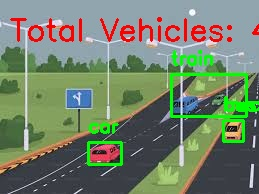
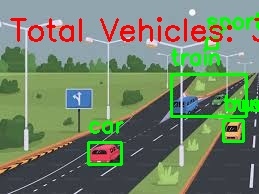
update yolo

Changed region(s): [[0.6486, 0.0309, 1.0, 0.3402], [0.8649, 0.4639, 1.0, 0.5876], [0.3398, 0.6186, 0.4942, 0.7113]]

diff --git a/detect.py b/detect.py
@@ -1,60 +1,59 @@
 from ultralytics import YOLO
 import cv2
 
-# Load model YOLOv8 (Large untuk akurasi maksimal)
-model = YOLO("yolov8l.pt")  # l = large
+# Load model YOLOv8 Large
+model = YOLO("yolov8l.pt")
 
-# Daftar kelas kendaraan
-vehicle_classes = ["car", "truck", "bus", "motorcycle", "bicycle", "scooter", "van", "train"]
+# Daftar kelas kendaraan yang ingin dihitung (sesuai COCO)
+vehicle_classes = ["car", "truck", "bus", "motorcycle"]
 
 def detect_vehicle(image_path):
-    # Jalankan inferensi dengan confidence threshold 0.3 dan resize gambar lebih besar untuk objek kecil
-    results = model(image_path, conf=0.3, imgsz=1280)[0]  # imgsz lebih besar untuk deteksi lebih akurat
+    # Confidence agak rendah supaya kendaraan buram tetap terdeteksi
+    results = model(image_path, conf=0.25, imgsz=1280)[0]
 
-    # Baca gambar dengan OpenCV
     img = cv2.imread(image_path)
 
-    # Variabel menghitung jumlah kendaraan
-    count = 0
+    total_vehicle = 0
 
-    # Loop hasil deteksi
     for box in results.boxes:
         cls = int(box.cls[0])
-        label = results.names[cls]
+        label = results.names[cls]     # Nama kelas asli YOLO
 
-        # Jika yang terdeteksi adalah kendaraan
+        # Hitung hanya kendaraan
         if label in vehicle_classes:
-            count += 1
+            total_vehicle += 1
 
-            # Ambil koordinat bounding box
-            x1, y1, x2, y2 = map(int, box.xyxy[0].tolist())
+        # Ambil koordinat bounding box
+        x1, y1, x2, y2 = map(int, box.xyxy[0].tolist())
 
-            # Gambar kotak di sekitar objek
-            cv2.rectangle(img, (x1, y1), (x2, y2), (0, 255, 0), 2)
-            cv2.putText(img, label,
-                        (x1, y1 - 10),
-                        cv2.FONT_HERSHEY_SIMPLEX,
-                        0.6,
-                        (0, 255, 0),
-                        2)
+        # Gambar kotak
+        cv2.rectangle(img, (x1, y1), (x2, y2), (0, 255, 0), 2)
 
-    # Tambahkan jumlah kendaraan di atas gambar
-    cv2.putText(img, f"Total Vehicles: {count}", 
-                (10, 40), 
-                cv2.FONT_HERSHEY_SIMPLEX, 
-                1, 
-                (0, 0, 255), 
+        # Label TANPA angka (hanya nama kendaraan)
+        cv2.putText(img, label,
+                    (x1, y1 - 10),
+                    cv2.FONT_HERSHEY_SIMPLEX,
+                    0.7,
+                    (0, 255, 0),
+                    2)
+
+    # Tampilkan total kendaraan di atas gambar
+    cv2.putText(img, f"Total Vehicles: {total_vehicle}",
+                (10, 40),
+                cv2.FONT_HERSHEY_SIMPLEX,
+                1,
+                (0, 0, 255),
                 2)
 
-    # Simpan gambar hasil deteksi
+    # Simpan output
     output_path = "static/output.jpg"
     cv2.imwrite(output_path, img)
 
-    return count, output_path
+    return total_vehicle, output_path
+
 
 # Contoh pemanggilan fungsi
 if __name__ == "__main__":
-    image_path = "test_image.jpg"  # ganti dengan path gambar kamu
-    total, output_img = detect_vehicle(image_path)
-    print(f"Jumlah kendaraan terdeteksi: {total}")
-    print(f"Gambar hasil deteksi tersimpan di: {output_img}")
+    total, output_img = detect_vehicle("test_image.jpg")
+    print("Jumlah kendaraan:", total)
+    print("Output:", output_img)
